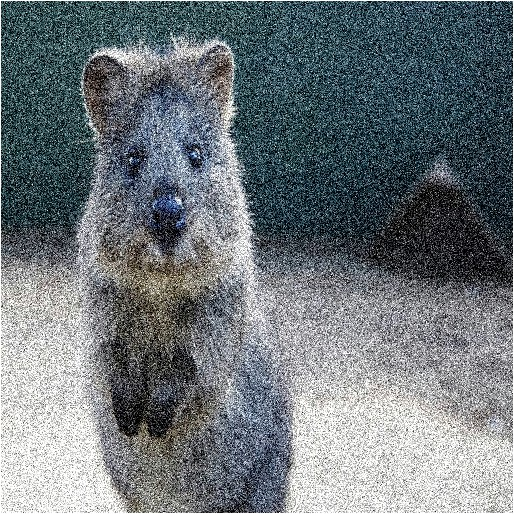
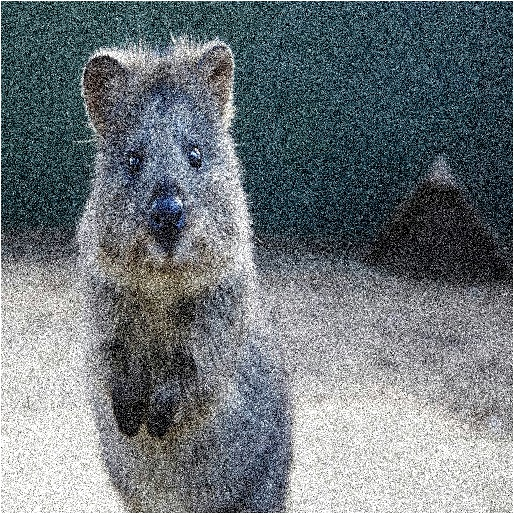
Fix outdated RTD overview AdditiveGaussianNoise, decrease img compression

diff --git a/scripts/generate_rtd_images/gen_overview_arithmetic.py b/scripts/generate_rtd_images/gen_overview_arithmetic.py
@@ -53,21 +53,21 @@ def chapter_augmenters_additivegaussiannoise():
     run_and_save_augseq(
         "arithmetic/additivegaussiannoise.jpg", aug,
         [ia.quokka(size=(128, 128)) for _ in range(8)], cols=4, rows=2,
-        quality=90
+        quality=95
     )
 
     aug = iaa.AdditiveGaussianNoise(scale=0.2*255)
     run_and_save_augseq(
         "arithmetic/additivegaussiannoise_large.jpg", aug,
         [ia.quokka(size=(512, 512)) for _ in range(1)], cols=1, rows=1,
-        quality=90
+        quality=95
     )
 
     aug = iaa.AdditiveGaussianNoise(scale=0.2*255, per_channel=True)
     run_and_save_augseq(
         "arithmetic/additivegaussiannoise_per_channel.jpg", aug,
         [ia.quokka(size=(512, 512)) for _ in range(1)], cols=1, rows=1,
-        quality=90
+        quality=95
     )
 
 

diff --git a/source/overview/arithmetic.rst b/source/overview/arithmetic.rst
@@ -53,13 +53,13 @@ In the other 50% of all images the value is the same for all channels per pixel:
 AdditiveGaussianNoise
 ---------------------
 
-Add gaussian noise (aka white noise) to images.
+Add noise sampled from gaussian distributions elementwise to images.
 
 Add gaussian noise to an image, sampled once per pixel from a normal
 distribution ``N(0, s)``, where ``s`` is sampled per image and varies between
 0 and 0.05\*255::
 
-    aug = iaa.AdditiveGaussianNoise(scale=(0, 0.05*255))
+    aug = iaa.AdditiveGaussianNoise(scale=(0, 0.2*255))
 
 .. figure:: ../../images/overview_of_augmenters/arithmetic/additivegaussiannoise.jpg
     :alt: AdditiveGaussianNoise
@@ -67,7 +67,7 @@ distribution ``N(0, s)``, where ``s`` is sampled per image and varies between
 Add gaussian noise to an image, sampled once per pixel from a normal
 distribution ``N(0, 0.05*255)``::
 
-    aug = iaa.AdditiveGaussianNoise(scale=0.05*255)
+    aug = iaa.AdditiveGaussianNoise(scale=0.2*255)
 
 .. figure:: ../../images/overview_of_augmenters/arithmetic/additivegaussiannoise_large.jpg
     :alt: AdditiveGaussianNoise large
@@ -77,7 +77,7 @@ a single value is sampled for each pixel and re-used for all three channels
 of that pixel. For the other 50% of all images, three values are sampled
 per pixel (i.e. channelwise sampling).::
 
-    aug = iaa.AdditiveGaussianNoise(scale=0.05*255, per_channel=0.5)
+    aug = iaa.AdditiveGaussianNoise(scale=0.2*255, per_channel=0.5)
 
 .. figure:: ../../images/overview_of_augmenters/arithmetic/additivegaussiannoise_per_channel.jpg
     :alt: AdditiveGaussianNoise per channel
